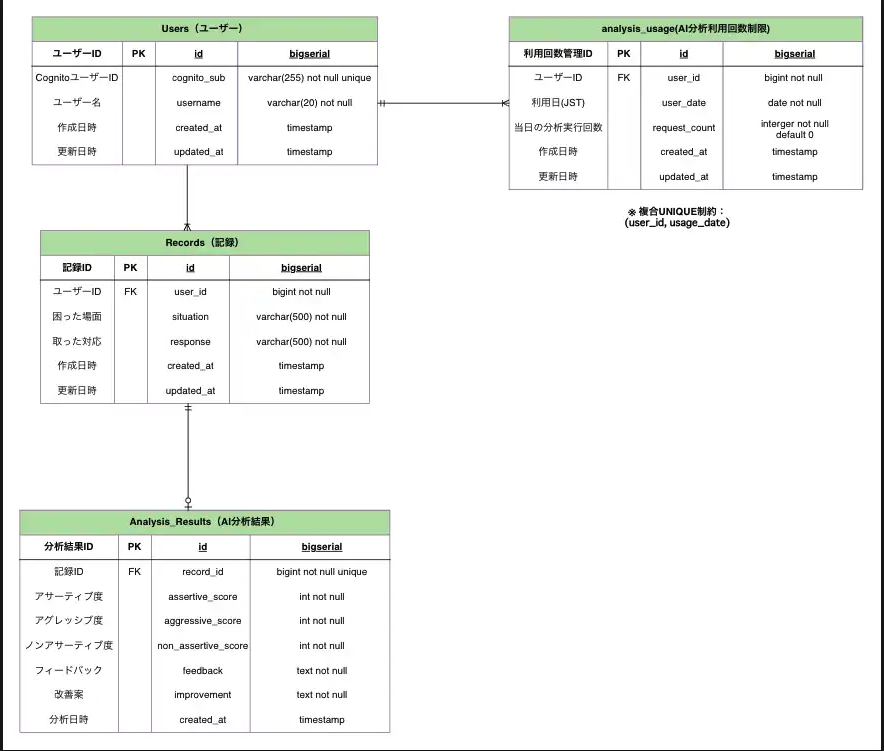
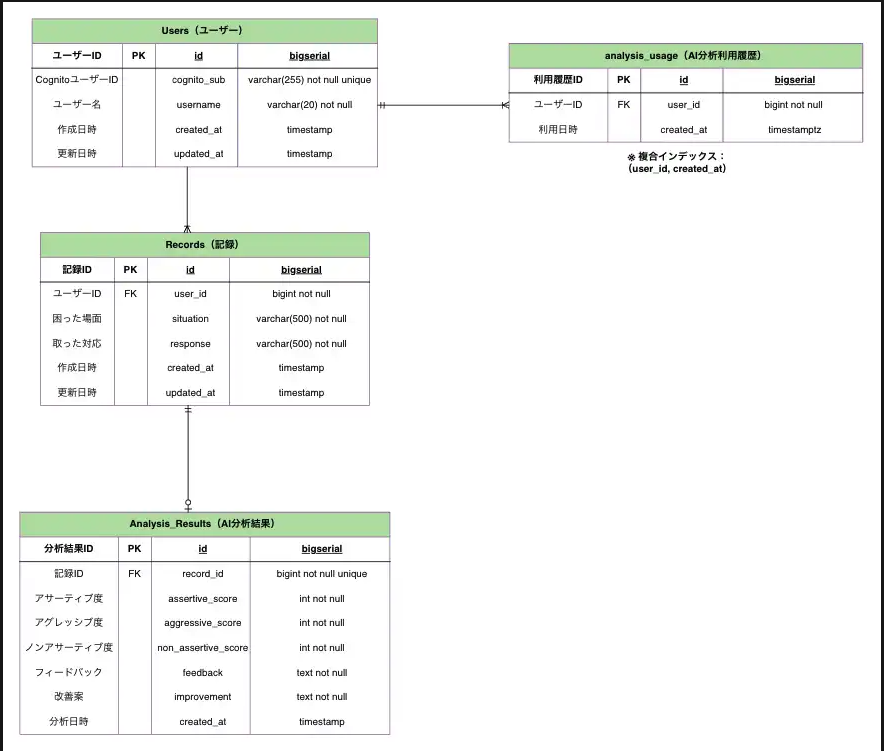
docs: 分析利用履歴のテーブル定義とER図を更新

diff --git a/README.md b/README.md
@@ -227,7 +227,7 @@ Drizzle ORMを使用してテーブル定義とデータベース操作を管理
 | users | ユーザー情報の管理 |
 | records | ユーザーが入力した分析内容の保存 |
 | analysis_results | AIによる分析結果の保存 |
-| analysis_usage | ユーザーごとの日別分析利用回数の管理 |
+| analysis_usage | ユーザーごとのAI分析利用履歴の管理 |
 
 ### users
 
@@ -273,28 +273,32 @@ AIが生成した分析結果を保存するテーブルです。
 
 ### analysis_usage
 
-ユーザーごとの日別分析利用回数を管理するテーブルです。
+ユーザーごとのAI分析利用履歴を管理するテーブルです。
 
-AI分析のリクエスト回数を記録し、1日10回の利用制限に使用します。
+AI分析のリクエストごとに1レコードを作成し、日本時間（JST）で当日のレコード数を集計することで、1日10回の利用制限を管理します。
 
 | カラム | 説明 |
 |---|---|
-| id | 利用回数管理ID |
+| id | 利用履歴ID |
 | user_id | ユーザーID |
-| usage_date | 利用日（日本時間） |
-| request_count | 当日の分析リクエスト回数 |
-| created_at | 作成日時 |
-| updated_at | 更新日時 |
+| created_at | AI分析の利用日時（TIMESTAMPTZ） |
 
-`user_id`と`usage_date`の組み合わせにはUNIQUE制約を設定しています。
+`user_id`は`users`テーブルの外部キーです。
 
-これにより、1人のユーザーにつき、1日1レコードで利用回数を管理します。
+また、`user_id`と`created_at`に複合インデックスを設定し、ユーザーごとの日別利用履歴を効率的に取得できるようにしています。
 
-分析リクエスト時には、AI分析の実行前に利用回数を加算します。
+### 利用回数の管理
 
-利用回数が10回に達している場合は、HTTP 429を返して分析処理を実行しません。
+AI分析のリクエスト時には、以下の処理を実行します。
 
-なお、Bedrockでエラーが発生した場合も、利用回数としてカウントします。
+1. 対象ユーザーのレコードを`SELECT ... FOR UPDATE`でロックする
+2. JST基準で当日の利用履歴を取得し、レコード数を集計する
+3. 利用回数が10回未満の場合、`analysis_usage`に1レコード追加する
+4. 利用回数が10回に達している場合、HTTP 429を返す
+
+`SELECT ... FOR UPDATE`による排他制御を行うことで、同一ユーザーから複数のリクエストが同時に送信された場合でも、利用回数の上限を超えないようにしています。
+
+なお、利用履歴はAI分析の実行前に記録するため、Bedrockでエラーが発生した場合も利用回数としてカウントします。
 
 ### テーブル間の関連
 
@@ -314,9 +318,9 @@ analysis_results
 
 1人のユーザーが複数の分析履歴を持ち、1つの分析履歴に対して1つの分析結果が紐付きます。
 
-また、1人のユーザーは日付ごとに分析利用回数のレコードを持ちます。
+また、1人のユーザーは複数のAI分析利用履歴を持ちます。
 
-`analysis_usage`では、ユーザーIDと利用日の組み合わせを一意にすることで、日別の利用回数を管理します。
+analysis_usageでは、AI分析のリクエストごとにレコードを作成し、created_atをもとに日本時間（JST）で当日の利用回数を集計します。
 
 ---
 
